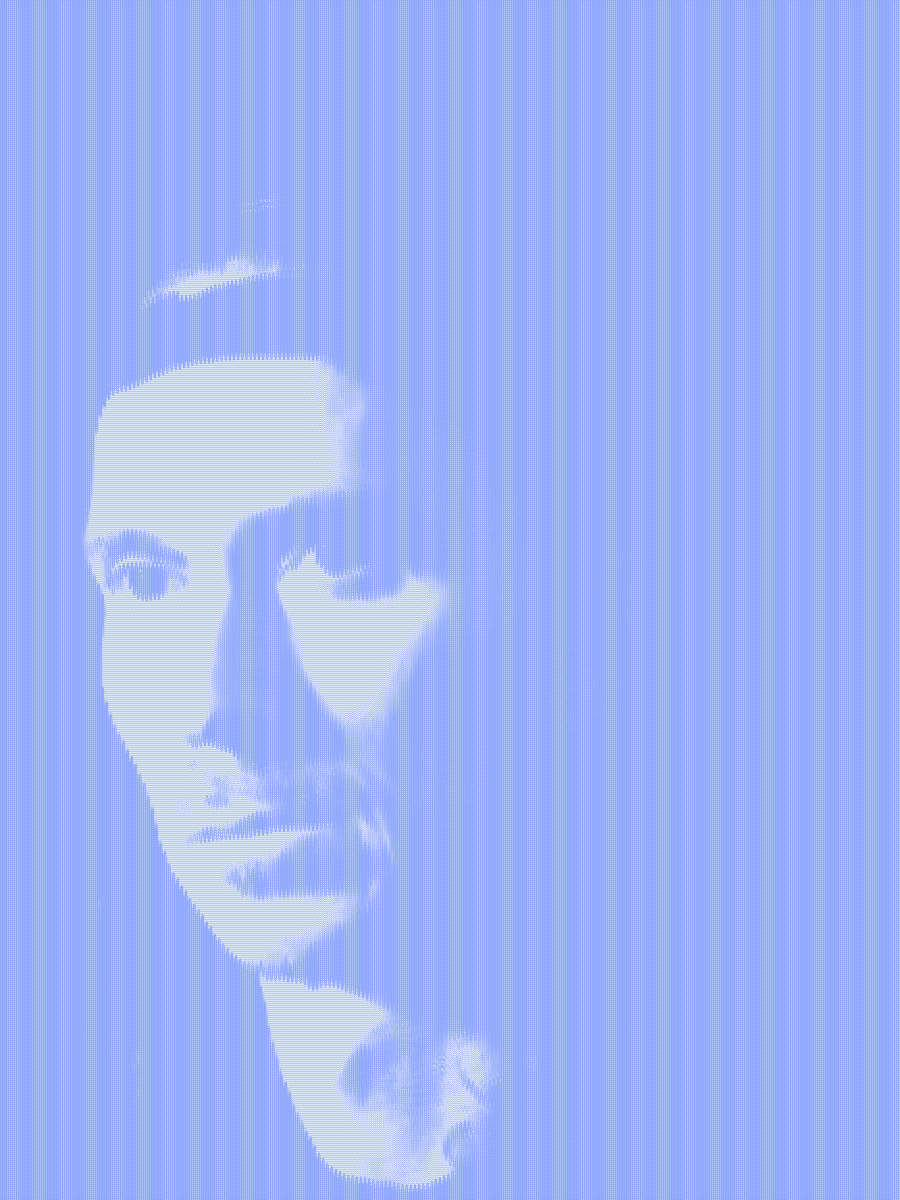
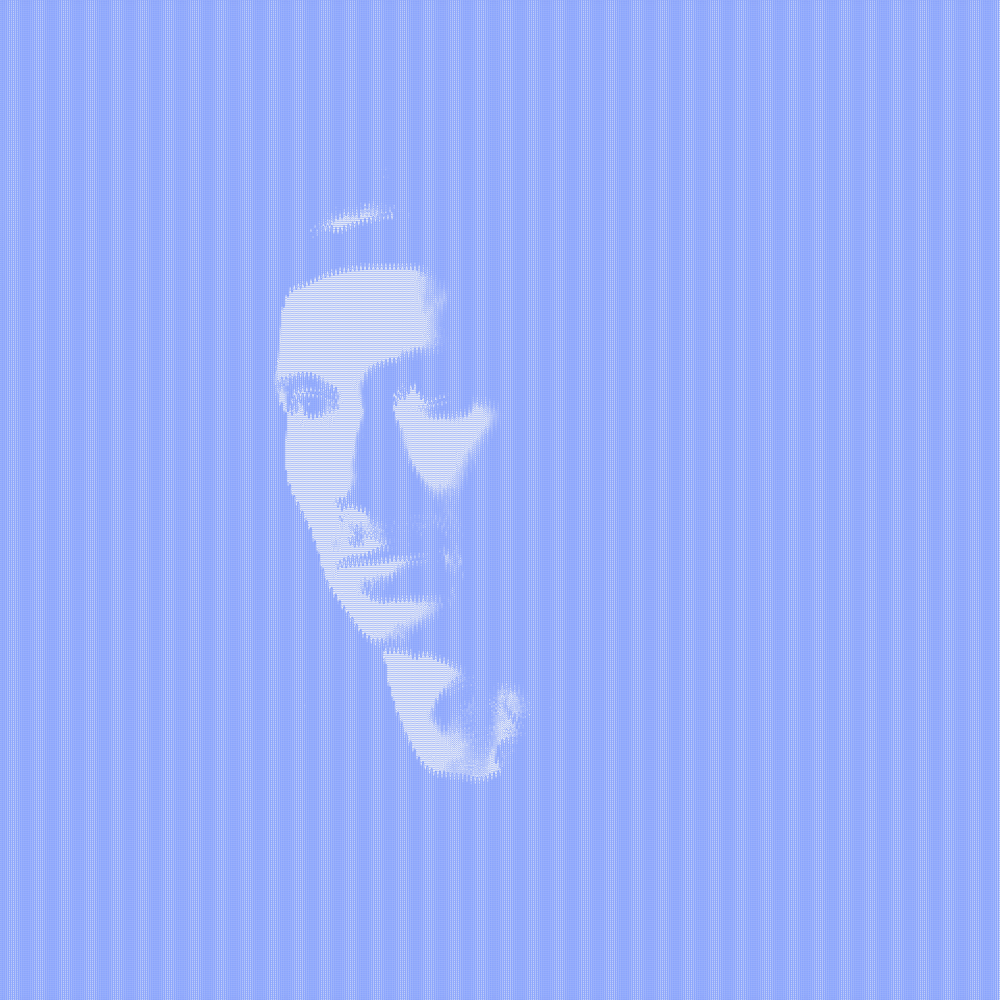
Export Adam Whitcroft as official square Blue
Use the sinwave.vercel.app Blue preset and native square sizing instead of a 3:4 recrop. Purple is not used for Adam.

diff --git a/src/sinePortrait.ts b/src/sinePortrait.ts
@@ -178,6 +178,28 @@ type PreparedSineWave = {
 
 const WORKING_HEIGHT = 1200;
 const WORKING_WIDTH = Math.round((WORKING_HEIGHT * 3) / 4);
+const OFFICIAL_MIN_SIZE = 1000;
+const OFFICIAL_MAX_SIZE = 1200;
+
+/** Official tool sizing: keep source aspect, scale longest side into 1000–1200. */
+export function officialWorkingSize(srcW: number, srcH: number) {
+  let width = srcW;
+  let height = srcH;
+  const longest = Math.max(width, height);
+  if (longest < OFFICIAL_MIN_SIZE) {
+    const scale = OFFICIAL_MIN_SIZE / longest;
+    width *= scale;
+    height *= scale;
+  } else if (longest > OFFICIAL_MAX_SIZE) {
+    const scale = OFFICIAL_MAX_SIZE / longest;
+    width *= scale;
+    height *= scale;
+  }
+  return {
+    width: Math.max(1, Math.round(width)),
+    height: Math.max(1, Math.round(height)),
+  };
+}
 
 function coverDraw(
   ctx: CanvasRenderingContext2D,
@@ -209,16 +231,24 @@ function prepareSineWave(
   settings: EffectSettings,
   photoFit: string,
   zoom = 1,
+  size?: { width: number; height: number },
+  letterbox = false,
 ): PreparedSineWave {
-  const width = WORKING_WIDTH;
-  const height = WORKING_HEIGHT;
+  const width = size?.width ?? WORKING_WIDTH;
+  const height = size?.height ?? WORKING_HEIGHT;
   const probe = document.createElement("canvas");
   probe.width = width;
   probe.height = height;
   const probeCtx = probe.getContext("2d", { willReadFrequently: true });
   if (!probeCtx) throw new Error("Canvas 2D context unavailable");
 
-  coverDraw(probeCtx, img, width, height, photoFit, zoom);
+  if (letterbox) {
+    probeCtx.imageSmoothingEnabled = true;
+    probeCtx.imageSmoothingQuality = "high";
+    probeCtx.drawImage(img, 0, 0, width, height);
+  } else {
+    coverDraw(probeCtx, img, width, height, photoFit, zoom);
+  }
   const data = probeCtx.getImageData(0, 0, width, height).data;
 
   const grayscale = new Float32Array(width * height);
@@ -332,6 +362,26 @@ export function renderSinePortrait(
   zoom = 1,
 ): void {
   const prepared = prepareSineWave(img, settings, photoFit, zoom);
+  canvas.width = prepared.width;
+  canvas.height = prepared.height;
+  const ctx = canvas.getContext("2d");
+  if (!ctx) return;
+  renderSineWaveFrame(ctx, prepared, 1);
+}
+
+/**
+ * Official sinwave.vercel.app Image export: keep the source aspect ratio,
+ * scale into the 1000–1200 working range, and paint the default Blue effect.
+ */
+export function renderOfficialSineImage(
+  canvas: HTMLCanvasElement,
+  img: HTMLImageElement,
+  settings: EffectSettings = DEFAULT_EFFECT_SETTINGS,
+): void {
+  const srcW = img.naturalWidth || img.width;
+  const srcH = img.naturalHeight || img.height;
+  const size = officialWorkingSize(srcW, srcH);
+  const prepared = prepareSineWave(img, settings, "center", 1, size, true);
   canvas.width = prepared.width;
   canvas.height = prepared.height;
   const ctx = canvas.getContext("2d");

diff --git a/scripts/export-portraits-client.ts b/scripts/export-portraits-client.ts
@@ -1,25 +1,5 @@
 import adamWhitcroft from "../src/assets/judges/adam-whitcroft.jpg";
-import {
-  DEFAULT_EFFECT_SETTINGS,
-  renderSinePortrait,
-  type EffectSettings,
-} from "../src/sinePortrait";
-
-const jobs = [
-  {
-    file: "adam-whitcroft-sinwave.png",
-    src: adamWhitcroft,
-    photoFit: "center 18%",
-    zoom: 1.35,
-    settings: {
-      ...DEFAULT_EFFECT_SETTINGS,
-      brightness: 2,
-      contrast: 1.85,
-      foregroundColor: "#6b8cff",
-      backgroundColor: "#e8ecf5",
-    } satisfies EffectSettings,
-  },
-];
+import { DEFAULT_EFFECT_SETTINGS, renderOfficialSineImage } from "../src/sinePortrait";
 
 async function loadImage(src: string): Promise<HTMLImageElement> {
   const img = new Image();
@@ -28,18 +8,20 @@ async function loadImage(src: string): Promise<HTMLImageElement> {
   return img;
 }
 
-for (const job of jobs) {
-  const img = await loadImage(job.src);
-  const canvas = document.createElement("canvas");
-  renderSinePortrait(canvas, img, job.settings, job.photoFit, job.zoom);
-  const blob = await new Promise<Blob>((resolve, reject) => {
-    canvas.toBlob(value => (value ? resolve(value) : reject(new Error("toBlob failed"))), "image/png");
-  });
-  await fetch("/save", {
-    method: "POST",
-    headers: { "x-filename": job.file },
-    body: blob,
-  });
-}
+const img = await loadImage(adamWhitcroft);
+const canvas = document.createElement("canvas");
+renderOfficialSineImage(canvas, img, {
+  ...DEFAULT_EFFECT_SETTINGS,
+  foregroundColor: "#6b8cff",
+  backgroundColor: "#e8ecf5",
+});
+const blob = await new Promise<Blob>((resolve, reject) => {
+  canvas.toBlob(value => (value ? resolve(value) : reject(new Error("toBlob failed"))), "image/png");
+});
+await fetch("/save", {
+  method: "POST",
+  headers: { "x-filename": "adam-whitcroft-sinwave.png" },
+  body: blob,
+});
 await fetch("/done", { method: "POST" });
-document.body.textContent = "Exported Adam portrait.";
+document.body.textContent = "Exported official Blue Adam portrait.";

diff --git a/src/judges.test.ts b/src/judges.test.ts
@@ -50,6 +50,15 @@ test("official sine-wave export keeps a square source square", () => {
   expect(officialWorkingSize(460, 460)).toEqual({ width: 1000, height: 1000 });
 });
 
+test("Adam portrait PNG is a square official export, not purple", async () => {
+  const bytes = new Uint8Array(await Bun.file("src/assets/judges/adam-whitcroft-sinwave.png").arrayBuffer());
+  expect(bytes[0]).toBe(0x89);
+  const width = new DataView(bytes.buffer, bytes.byteOffset, bytes.byteLength).getUint32(16);
+  const height = new DataView(bytes.buffer, bytes.byteOffset, bytes.byteLength).getUint32(20);
+  expect(width).toBe(1000);
+  expect(height).toBe(1000);
+});
+
 test("portraits follow the Compile speakers color order", () => {
   expect(judges.map(judge => judge.preset)).toEqual([
     "Orange",

diff --git a/scripts/export-portraits.ts b/scripts/export-portraits.ts
@@ -38,7 +38,7 @@ const server = Bun.serve({
 console.log(`Export server at ${server.url}`);
 await finished;
 server.stop();
-if (saved.size !== 4) {
-  throw new Error(`Expected 4 portraits, saved ${saved.size}`);
+if (saved.size !== 1) {
+  throw new Error(`Expected Adam portrait, saved ${saved.size}`);
 }
 console.log(`Wrote ${[...saved].sort().join(", ")}`);
